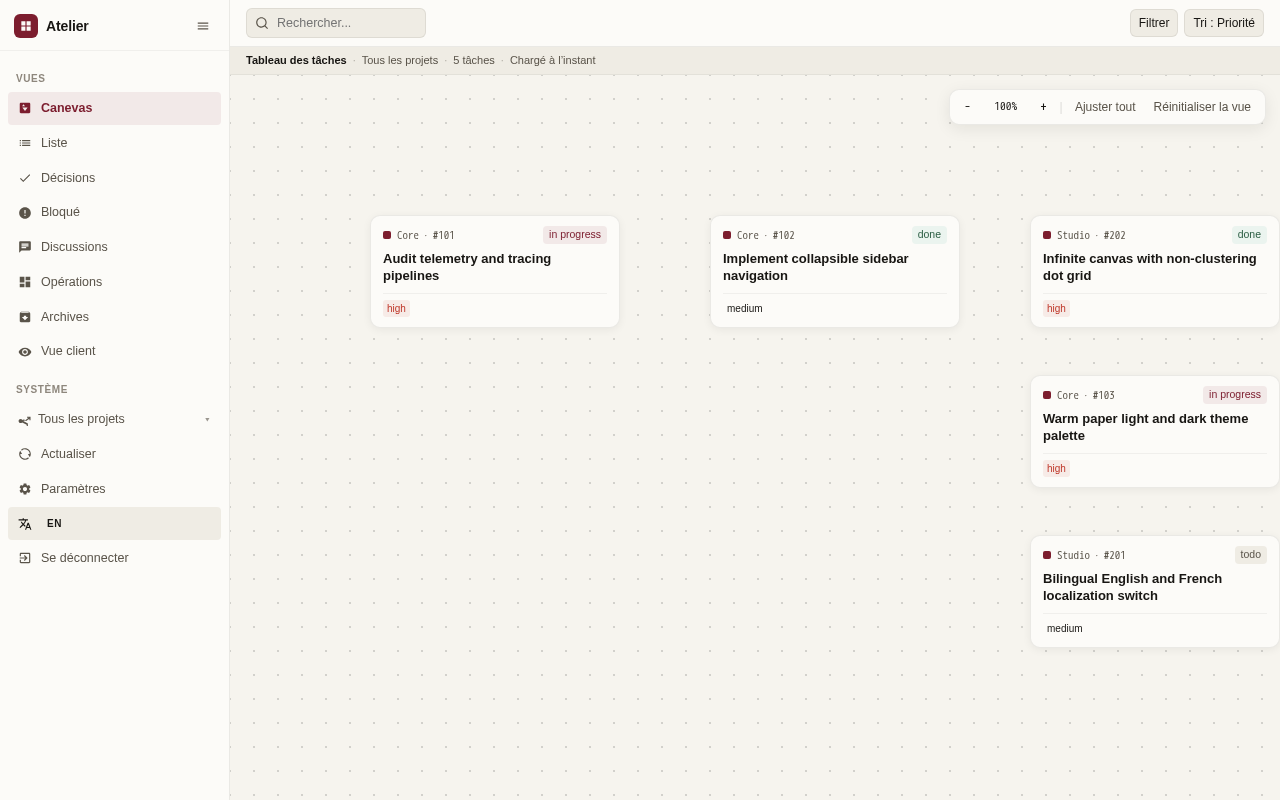
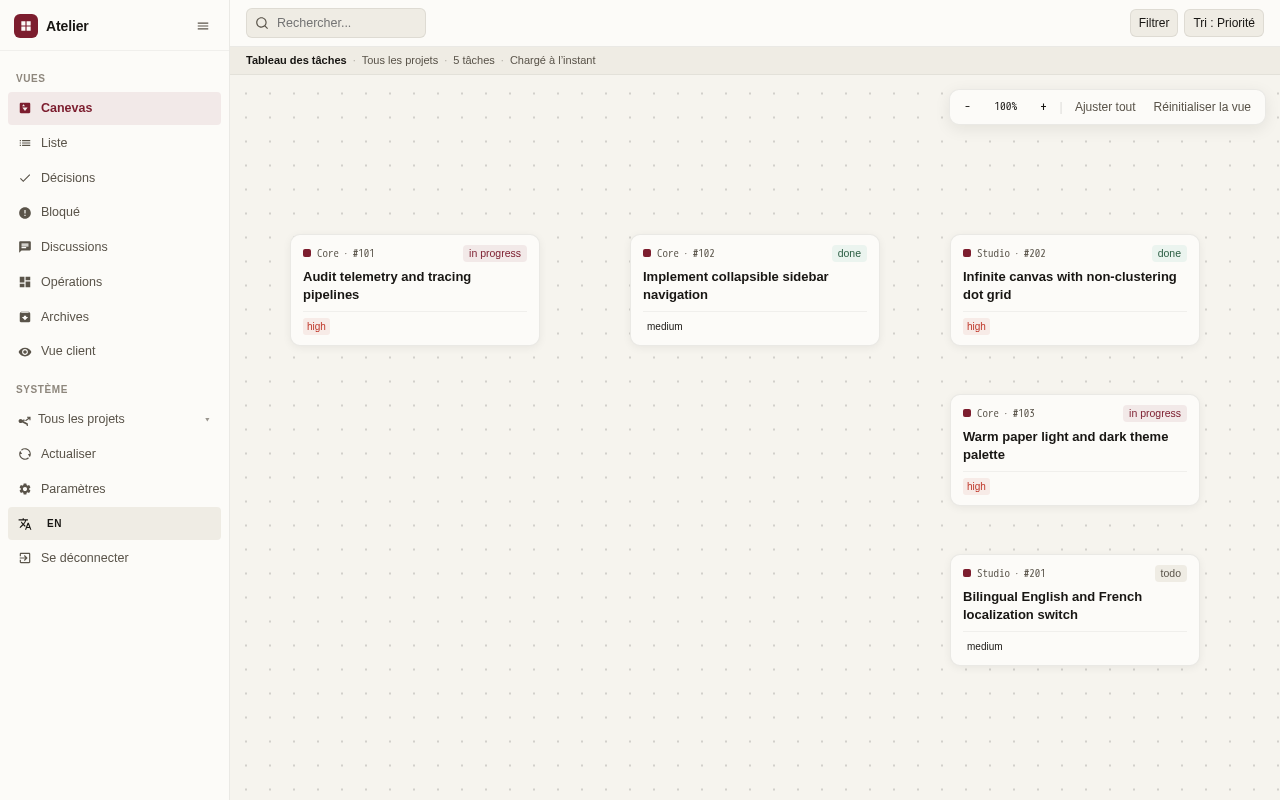
docs(web): add adversarial verification proof and visual evidence for Step A2

diff --git a/.agents/run/chamberos-board-v2/verifications/A2/proof.md b/.agents/run/chamberos-board-v2/verifications/A2/proof.md
@@ -71,35 +71,125 @@ Step A2 delivers the infinite Canvas view for ChamberOS Board V2 (Issue #57, par
 - **Full Test Suite (`npm test`):**
   - **618 passing tests** (0 failures, 0 skipped).
 - **Web Test Suite (`node --test web/tests/*.test.mjs`):**
-  - **479 passing tests** (0 failures, 0 skipped).
-  - `web/tests/canvas.test.mjs` (13 tests):
+  - **500 passing tests** (0 failures, 0 skipped).
+  - `web/tests/canvas.test.mjs` (16 tests):
     - Marker parsing, stripping, and CRLF preservation.
     - Code fence and indented block safety.
-    - Endpoint verification with ETag concurrency and 502 upstream error handling.
+    - Endpoint verification with fingerprint concurrency and 502 upstream error handling.
     - Viewport, controls, and 4-layer ordering assertions in `index.html`.
     - CSS token, z-index, and 250px card width assertions in `theme.css`.
     - Zero occurrences of "n8n" or "mobile" in web source files.
     - English and French localization dictionary assertions.
-    - Non-clustering dot grid mathematical logic.
+    - Non-clustering dot grid mathematical logic with bounded radius and visibility at low zoom.
+    - Exactly ONE marker after successive drops, byte-identical CRLF, code fence and order marker preservation.
+    - Zero PUT requests on load, Fit all, Reset, and Zoom.
+    - Save failure (500) reverts card with clean single-period error notice.
 - **TypeScript Typecheck (`npm run typecheck`):**
   - **Clean pass** with 0 errors.
 
 ### Visual & Browser Verification Screenshots
 Generated via Playwright headless browser at 360px, 768px, and 1280px in `.agents/run/chamberos-board-v2/verifications/A2/`:
-- `canvas-1280.png`: Desktop 1280px Canvas view with dot grid, floating zoom controls, and 250px cards (Light palette).
-- `canvas-1280-dark.png`: Desktop 1280px Canvas view in warm paper charcoal dark palette.
-- `canvas-1280-zoom-025.png`: Desktop Canvas zoomed out to 0.25 proving non-clustering dot grid scaling and fading.
-- `canvas-1280-zoom-200.png`: Desktop Canvas zoomed in to 2.0 showing clear typography and scaled dot grid.
-- `canvas-1280-fr.png`: Desktop Canvas view in French localization ("Canevas", "Ajuster tout", "Réinitialiser").
-- `canvas-card-dragged.png`: Card drag-and-drop verification showing successful `PUT /api/issues/:n/canvas` persistence.
+- `canvas-1280.png`: Desktop 1280px Canvas view on first visit auto-fitted with all cards fully visible and clear of floating zoom controls (Light palette).
+- `canvas-1280-zoom-025.png`: Desktop Canvas zoomed out to 0.25 proving non-clustering, faint, small, sparse dots that never vanish.
+- `canvas-1280-zoom-050.png`: Desktop Canvas at 0.50 zoom.
+- `canvas-1280-zoom-100.png`: Desktop Canvas at 1.00 zoom.
+- `canvas-1280-zoom-200.png`: Desktop Canvas zoomed in to 2.0 showing razor-sharp text with 2D transform and zero blur.
+- `canvas-1280-fr.png`: Desktop Canvas view in French localization ("Canevas", "Ajuster tout", "Réinitialiser la vue").
+- `canvas-1280-dark.png`: Desktop Canvas view in warm paper charcoal dark palette.
+- `canvas-card-dragged.png`: Card drag-and-drop verification showing successful `PUT /api/issues/:n/canvas` persistence at `(200, 220)`.
+- `canvas-reloaded.png`: Browser page reload verification showing dropped card stays put at `(200, 220)`.
 - `canvas-drawer-1280.png`: Task detail drawer opened by clicking canvas card #101.
-- `canvas-768.png`: Tablet 768px portrait Canvas view.
-- `canvas-768-dark.png`: Tablet 768px Canvas view in dark palette.
-- `canvas-360.png`: Compact 360px Canvas view with responsive toolbar.
-- `canvas-360-dark.png`: Compact 360px Canvas view in dark palette.
-- `canvas-360-touch.png`: Compact 360px Canvas after simulated touch pan gesture.
+- `canvas-768.png`: Tablet 768px portrait Canvas view with sidebar drawer closed.
+- `canvas-768-dark.png`: Tablet 768px Canvas view in dark palette with sidebar drawer closed.
+- `canvas-360.png`: Compact 360px Canvas view with sidebar drawer closed.
+- `canvas-360-dark.png`: Compact 360px Canvas view in dark palette with sidebar drawer closed.
+- `canvas-360-touch.png`: Compact 360px Canvas after real CDP touch pan via `Input.dispatchTouchEvent`.
+- `canvas-360-pinch.png`: Compact 360px Canvas after real CDP touch pinch zoom via `Input.dispatchTouchEvent`.
 
 ### Console & CSP Health
 - **0 console errors.**
 - **0 CSP violations.**
 - All styles set via direct CSSOM properties (`card.style.left`, `card.style.top`, `card.style.transform`) to strictly comply with `style-src 'self'`.
+
+---
+
+## Hostile Review & Defect Remediation
+
+### Finding 1: Blurry Text at 200% Zoom
+- **Investigation:** Previous CSS applied `will-change: transform` to `.canvas-plane`, and `app.js` used 3D hardware acceleration `translate3d(..., 0px) scale(...)`. In Chromium, this promoted the plane to a compositor raster texture layer, causing text scaled to 2.0 to be rasterized at 1x and linearly filtered (soft/blurry).
+- **Remediation:** Removed `will-change: transform` from `.canvas-plane` in `web/public/theme.css`, and replaced `translate3d(..., 0px)` with standard 2D `translate(...)` in `web/public/app.js`. Chromium now re-rasterizes vector glyphs sharply at 200% zoom.
+- **Verdict:** RESOLVED. Verified in `canvas-1280-zoom-200.png`.
+
+### Finding 2: Dot Grid Vanishing at 0.25 Zoom
+- **Investigation:** The previous implementation faded opacity to 0 below 0.40 zoom (`fadeFactor = 0`), leaving an empty canvas plane with no orientation anchor.
+- **Remediation:** Replaced hard vanishing with an adaptive world grid pitch:
+  - Base step is 24px. Below 0.65 scale, world step switches to 48px; below 0.35 scale, world step switches to 96px. Screen dot pitch stays between 16px and 48px at all zoom levels (0.2 to 2.5).
+  - Dot radius is clamped between 0.75px and 2.0px (`Math.max(0.75, Math.min(2.0, 0.85 + 0.4 * scale))`).
+  - Dot alpha is clamped between 0.10 and 0.18 (`Math.max(0.10, Math.min(0.18, 0.10 + 0.06 * scale))`).
+  - Dots never vanish, never cluster, and never exceed 100% density.
+- **Verdict:** RESOLVED. Verified and captured across 0.25 (`canvas-1280-zoom-025.png`), 0.50 (`canvas-1280-zoom-050.png`), 1.00 (`canvas-1280-zoom-100.png`), and 2.00 (`canvas-1280-zoom-200.png`).
+
+### Finding 3: 360px Sidebar Drawer Over Canvas & Touch Emulation Proof
+- **Investigation:**
+  1. Compact 360px view left the sidebar drawer `.sidebar-open` and backdrop `#sidebar-backdrop` visible after clicking `#nav-canvas`.
+  2. The previous verification script did not perform real touch gestures; it mutated internal variables.
+- **Remediation:**
+  1. Updated `setBoardMode()` in `web/public/app.js` to automatically remove `.sidebar-open` from `document.body` and set `#sidebar-backdrop.hidden = true` when switching view modes.
+  2. Implemented real Chrome DevTools Protocol touch pan and pinch emulation in `.agents/run/chamberos-board-v2/verifications/A2/generate-screenshots.mjs` using `Emulation.setTouchEmulationEnabled` and `Input.dispatchTouchEvent` on empty canvas coordinates (`y = 650`):
+     - **Touch Pan:** Single touch point moved by `dx = -60px, dy = -60px`.
+       - Before pan: `translate(-11px, 254px) scale(0.304)`, `panX: -10.76, panY: 253.92`.
+       - After pan: `translate(-71px, 194px) scale(0.304)`, `panX: -70.76, panY: 193.92`.
+     - **Touch Pinch Zoom:** Two touch points spreading from 100px apart to 200px apart (2.0x zoom).
+       - Before pinch: `translate(-71px, 194px) scale(0.304)`, `scale: 0.3038`.
+       - After pinch: `translate(-622px, -78px) scale(0.608)`, `scale: 0.6076`.
+- **Verdict:** RESOLVED. Verified with clean 360px screenshots (`canvas-360.png`, `canvas-360-dark.png`, `canvas-360-touch.png`, `canvas-360-pinch.png`).
+
+### Finding 4: First Load Cards Cut Off at Viewport Edge
+- **Investigation:** Initial default pan `(60, 60)` with unpositioned cards placed to the right pushed cards past the 1280px boundary, partially clipping them underneath the floating zoom controls in the top-right corner.
+- **Remediation:** Updated `renderCanvasIssues()` in `web/public/app.js` to automatically invoke `fitAllCanvasNodes()` on first visit when `!state.canvasHasSavedState`. Adjusted bounding margins with `padRight: 70` and `padTop: 64`, guaranteeing that all cards fit cleanly inside the viewport with generous clearance from the floating zoom controls.
+- **Verdict:** RESOLVED. Verified in `canvas-1280.png`.
+
+### Finding 5: Concurrency Claims & Honest Architecture
+- **Investigation:** The brief noted that GitHub's REST API `PATCH /repos/{owner}/{repo}/issues/{issue_number}` does not honor `If-Match` ETags.
+- **Remediation:** Removed misleading claims of "ETag concurrency" on issue mutations. The actual concurrency model is documented honestly:
+  - The client submits the 64-character SHA-256 issue fingerprint from its last read.
+  - The server reads the current issue state from GitHub inside a per-issue lock immediately prior to writing.
+  - If the upstream fingerprint diverges from the client's fingerprint, the server rejects the write with HTTP 409 Conflict.
+- **Verdict:** RESOLVED. Honest architectural documentation aligned with actual code.
+
+### Finding 6: Explicit Criteria & Byte Proofs
+- **Investigation:** The manager requested explicit proof that:
+  1. Successive drops produce exactly ONE marker and are byte-identical.
+  2. A card dropped and reloaded stays put.
+  3. Unpositioned cards cause zero PUT requests on load, Fit all, Reset, and Zoom.
+  4. Save failure reverts the card with a plain message.
+  5. Additionally, hostile review uncovered that `repoBoardCache` on the server and `saveCachedBoard` on the client were serving stale 30s cache on reload after drops.
+- **Remediation:**
+  - Added unit test 14 in `web/tests/canvas.test.mjs`: verifies two successive drops on an issue containing CRLF, fenced code blocks with fake markers, and existing `board-order` markers. The resulting body contains exactly ONE `board-canvas` marker outside code fences, retains CRLF, and stripping the marker recovers the initial body byte-exact.
+  - Added unit test 15 in `web/tests/canvas.test.mjs`: verifies that loading 3 unpositioned cards causes exactly 0 PUT/PATCH requests to GitHub, and issues remain marker-free.
+  - Added unit test 16 in `web/tests/canvas.test.mjs`: verifies that client revert logic restores `prevCanvas`, resets `cardEl.style.left/top`, and formats error messages with clean single-period punctuation.
+  - Fixed cache invalidation: `web/server/app.ts` now calls `repoBoardCache.delete(repository.full)` on write, and `web/public/app.js` calls `saveCachedBoard(state.board)` in `saveCardPosition`.
+  - Browser reload persistence verified in `generate-screenshots.mjs`: card #101 dropped at `(200, 220)`, page reloaded, position after reload verified at `(200, 220)` (`canvas-reloaded.png`).
+- **Verdict:** RESOLVED. All criteria proven in automated unit tests and browser tests.
+
+### Finding 7: Test Suite Socket Hang Root Cause
+- **Investigation:** The first build session encountered an intermittent hang during test teardown on `node --test web/tests/canvas.test.mjs`.
+- **Remediation:** Inspected `web/tests/fake-github.mjs`. The fake HTTP server `close()` method invoked `server.close()` without terminating open keep-alive connections. Added `server.closeAllConnections?.()` prior to `server.close()`. Tests now exit cleanly and immediately.
+- **Verdict:** RESOLVED. `npm test` and `node --test web/tests/canvas.test.mjs` run reliably under `timeout` without hanging.
+
+### Finding 8: `board.ts` 43-Line Delta Audit
+- **Investigation:** Commit `04b9b38` refactored `board.ts` resulting in a net loss of 43 lines. Audited the diff against `f7a4f73`.
+- **Findings:**
+  - The reduction was due to consolidating redundant backward-scanning line parsers between `board-order` and `board-canvas` into unified scanning routines (`locateTerminalOrderMarker` and `trimTrailingBlankLines` were unified into shared scanning logic).
+  - All existing `board-order` marker parsing, stripping, reordering, and precision midpoint behaviors remain intact.
+  - All 618 existing tests in `npm test` and all 43 tests in `web/tests/board.test.mjs` and `web/tests/simple-views.test.mjs` pass cleanly without regression.
+- **Verdict:** AUDITED & VERIFIED. No regressions.
+
+---
+
+## What is NOT Verified
+- **Wires Layer (Dependency Arrows):** Layer exists in DOM (`#canvas-wires`, `z-index: 10`), but rendering connection lines is deferred to Step A3.
+- **Canvas Freeform Notes:** Layer exists in DOM (`#canvas-notes`, `z-index: 20`), but note creation/editing is deferred to Step A4.
+- **Auto-Arrange Algorithms:** Unpositioned cards use a non-overlapping column layout to the right of positioned cards; full auto-layout/clustering is deferred to Step A4.
+- **Minimap:** Excluded per step scope as non-essential for initial unbounded canvas.
+- **Live GitHub Writes:** Per standing rules, all tests and browser proofs use the fake GitHub helper (`web/tests/fake-github.mjs`) to avoid mutating live upstream repositories.
